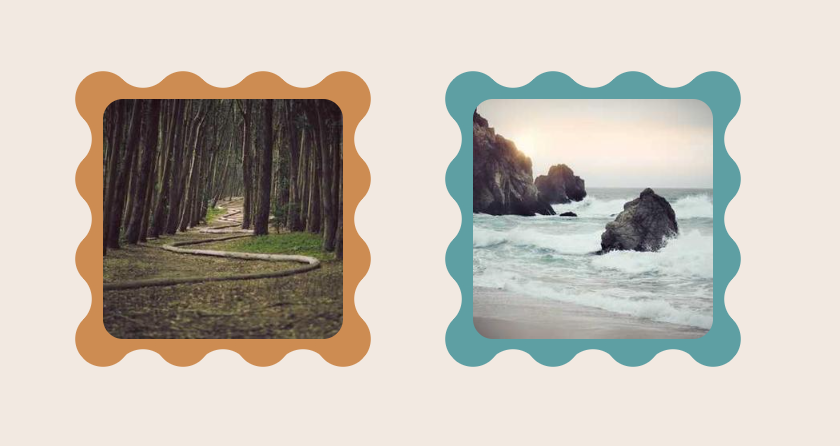
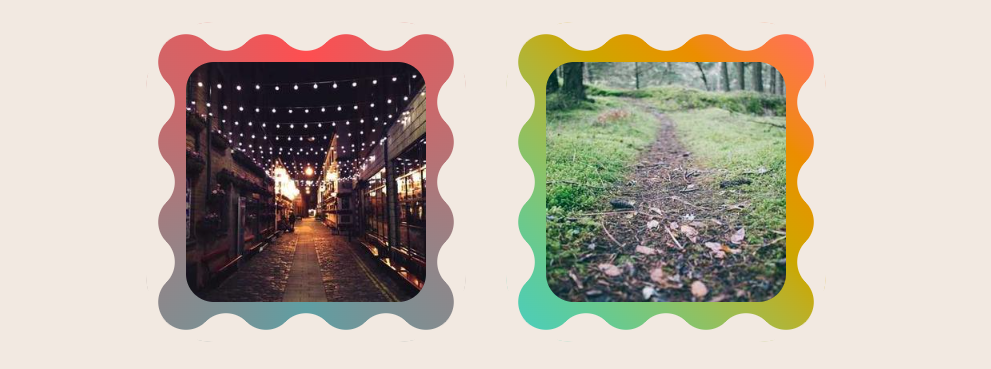
x

diff --git a/content/image-wavy-borders-2/index.html b/content/image-wavy-borders-2/index.html
@@ -1,0 +1,3 @@
+<script type="text/javascript">
+  window.location.replace("https://css-tip.com/image-wavy-borders/");
+</script>

diff --git a/content/image-wavy-borders/index.md b/content/image-wavy-borders/index.md
@@ -1,54 +1,46 @@
 ---
 layout: layouts/post.njk
-title: A fancy frame with wavy borders
-description: Place your image inside a frame with wavy borders
+title: A fancy frame with wavy borders (wavy box)
+description: Place your image inside a wavy box using modern CSS
 date: 2024-01-23
 tags: posts
 ---
 
-Place your image inside a fancy frame! Wavy borders on all the sides 🤩
+Place your image inside a [wavy box](https://css-shape.com/wavy-box/) using a few lines of code
 * Only one element (the `<img>` tag)
 * No pseudo-elements
 * Optimized with CSS Variables
-* First use case of the `round()` function 🥳
+* Works with gradient coloration
 
 {% image "./image.png", "CSS-only images with wavy borders on all the sides" %}
 
 ```css
 img {
-  --s: 40px;  /* control the size of the wave */
-  --w: 250px; /* preferred image width */
-  --c:#CD8C52;
+  --s: 80px;  /* control the size of the wave */
+  --w: 300px; /* preferred image width */
   
-  width: round(var(--w),2*var(--s)); 
+  width: round(var(--w),var(--s)); 
   aspect-ratio: 1;
-  object-fit: cover;
-  padding: var(--s);
-  border-radius: calc(1.5*var(--s));
-  --R:calc(var(--s)/sqrt(2)) at;
-  --g:radial-gradient(var(--R) 50%,var(--c) calc(100% - 1px),#0000) 
-     0 0/calc(2*var(--s)) calc(2*var(--s));
-  --_c:#0000 100%,var(--c) calc(100% + 1px);
-  --_b:calc(2*var(--s)) calc(51% - var(--s)/2) repeat-x;
-  background: var(--g),
-    radial-gradient(var(--R) 50% calc(100% + var(--s)/2),var(--_c)) 
-     var(--s) calc(100% - var(--s)/2)/var(--_b),
-    radial-gradient(var(--R) 50% calc(      var(--s)/-2),var(--_c)) 
-     var(--s) calc(       var(--s)/2)/var(--_b);
-  --_m:var(--s)/calc(51% - var(--s)/2) calc(2*var(--s)) repeat-y;
-  mask: var(--g),
-    radial-gradient(var(--R) calc(100% + var(--s)/2) 50%,var(--_c))
-     calc(100% - var(--s)/2) var(--_m),
-    radial-gradient(var(--R) calc(      var(--s)/-2) 50%,var(--_c)) 
-     calc(       var(--s)/2) var(--_m);
+  padding: calc(var(--s)/2);
+  box-sizing: border-box;
+  border-radius: calc(.85*var(--s));
+  --_r:calc(sqrt(2)*var(--s)/4),#000;
+  --_g:conic-gradient(#000 0 0) no-repeat;
+  mask: 
+    radial-gradient(var(--_r) calc(100% - 1px),#0000) 
+     0 0/var(--s) var(--s),
+    var(--_g) content-box,var(--_g) subtract 
+     50%/calc(100% - var(--s)/2) calc(100% - var(--s)/2),
+    radial-gradient(var(--_r) 100%,#0000 calc(100% + 1px)) 
+     calc(var(--s)/2) calc(var(--s)/2)/var(--s) var(--s);
 }
 ```
 
 
-<p class="codepen" data-height="500" data-default-tab="result" data-slug-hash="qBvXXBe" data-preview="true" data-user="t_afif" style="height: 500px; box-sizing: border-box; display: flex; align-items: center; justify-content: center; border: 2px solid; margin: 1em 0; padding: 1em;">
-  <span>See the Pen <a href="https://codepen.io/t_afif/pen/qBvXXBe">
-  CSS-only wavy edges</a> by Temani Afif (<a href="https://codepen.io/t_afif">@t_afif</a>)
+<p class="codepen" data-height="500" data-default-tab="result" data-slug-hash="EaYedaY" data-pen-title="Images inside wavy boxes" data-preview="true" data-user="t_afif" style="height: 500px; box-sizing: border-box; display: flex; align-items: center; justify-content: center; border: 2px solid; margin: 1em 0; padding: 1em;">
+  <span>See the Pen <a href="https://codepen.io/t_afif/pen/EaYedaY">
+  Images inside wavy boxes</a> by Temani Afif (<a href="https://codepen.io/t_afif">@t_afif</a>)
   on <a href="https://codepen.io">CodePen</a>.</span>
 </p>
-<script async src="https://cpwebassets.codepen.io/assets/embed/ei.js"></script>
+<script async src="https://public.codepenassets.com/embed/index.js"></script>
 
